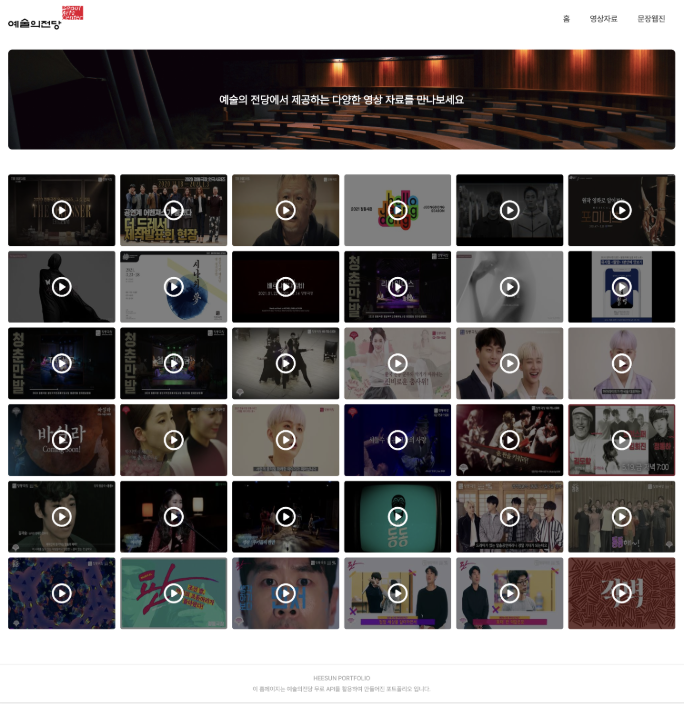
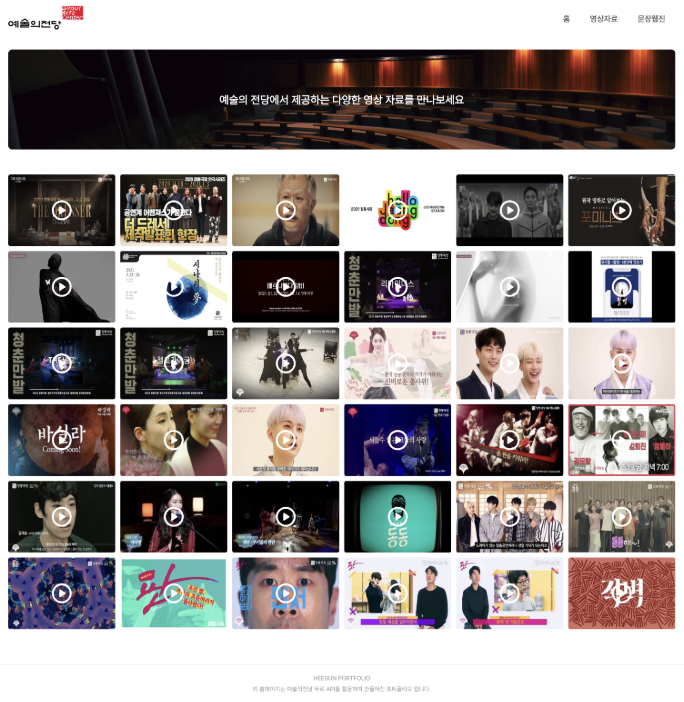
🔵 other: 동영상 style 수정

diff --git a/src/pages/art/art.style.ts b/src/pages/art/art.style.ts
@@ -14,7 +14,7 @@ export const StyledArt = styled.div`
       overflow: hidden;
     }
     .youtube {
-      background: rgba(0, 0, 0, 0.5);
+      /* background: rgba(0, 0, 0, 0.5); */
       position: absolute;
       top: 0;
       left: 0;
